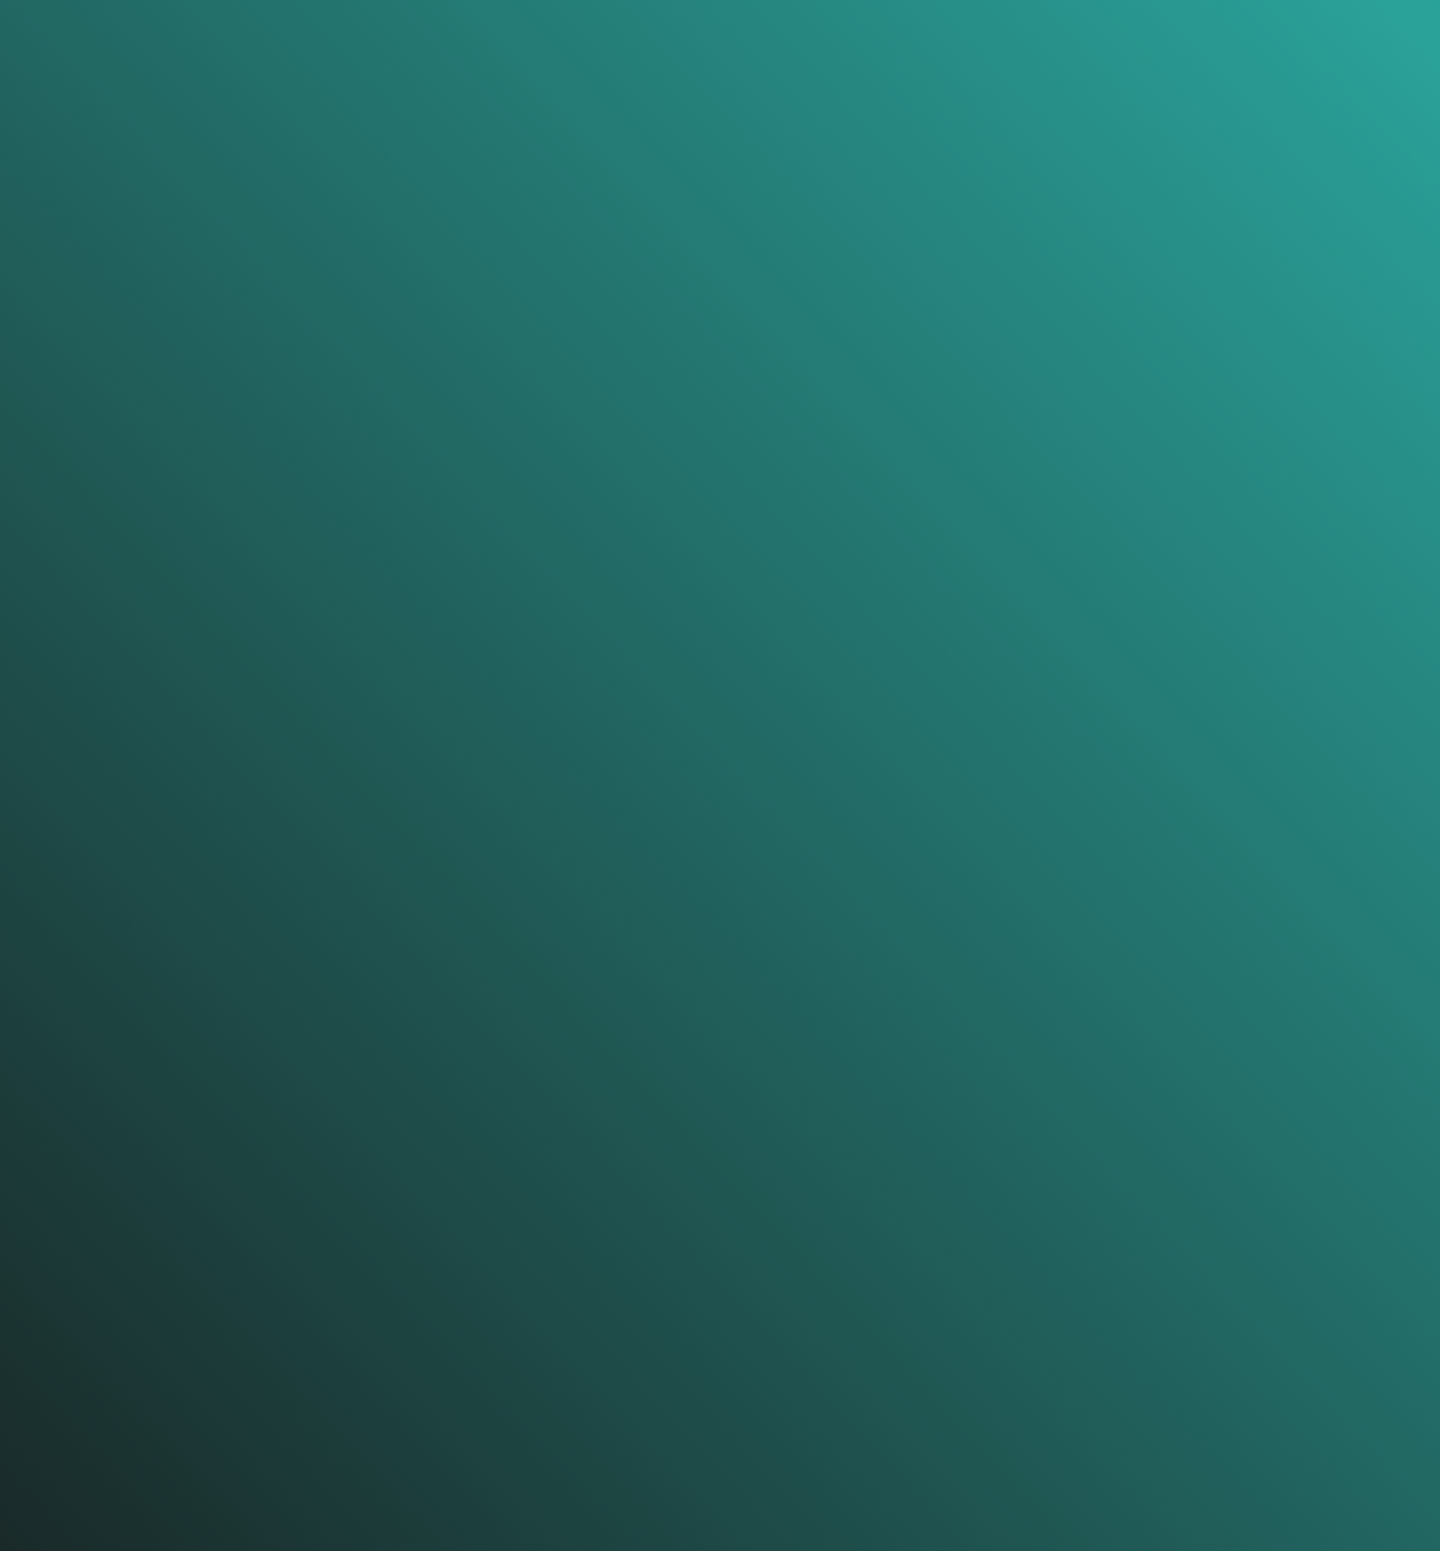
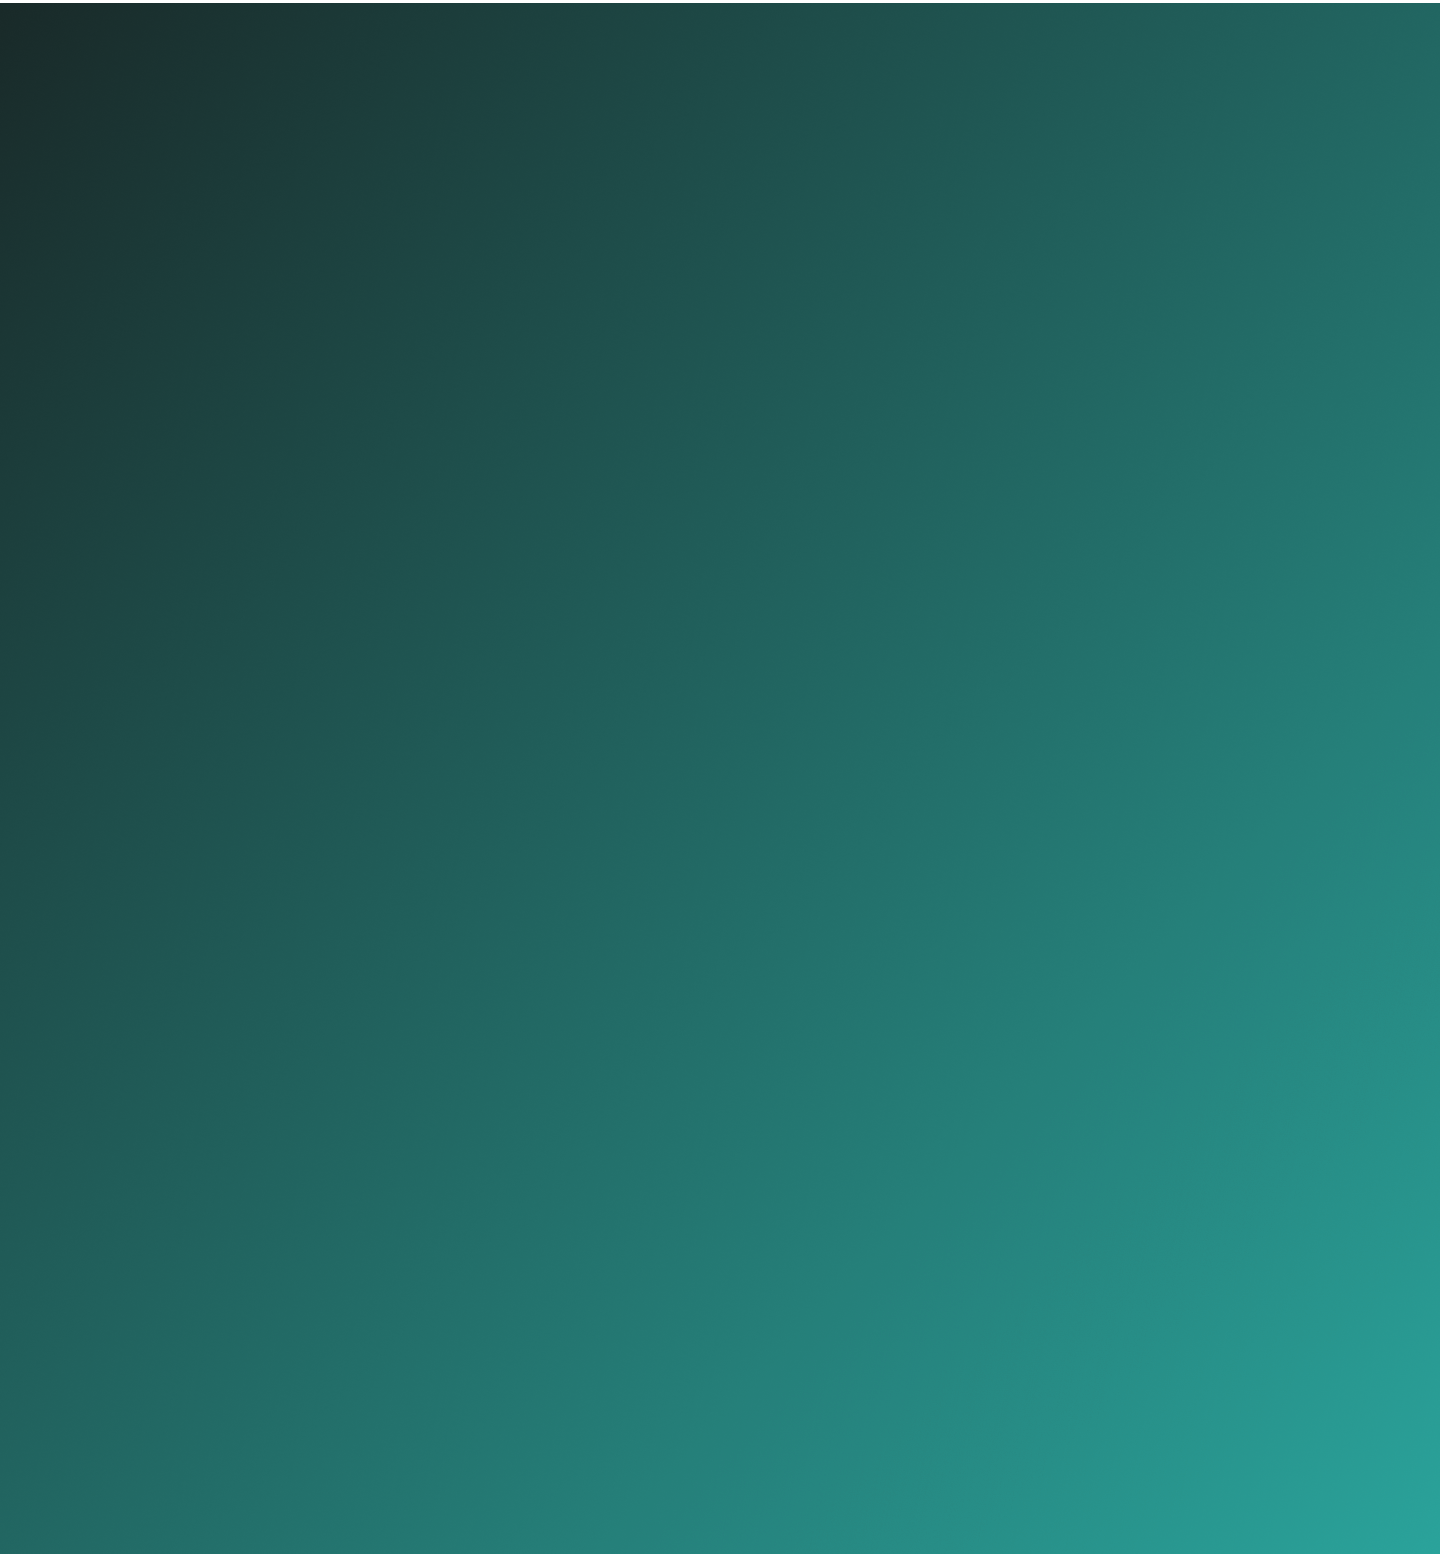
fix: Centré la parte de textimonios y reseñas

diff --git a/index.html b/index.html
@@ -200,7 +200,7 @@
             </div>
         </section>
 		<section id="testimonios">
-            <div class="main-container2">
+            <div class="main-container2" style="--src:url(../img/FondoTurquesaNegro.png)">
                 <div class="rectangle">
                   <span class="remote-teams">Nuestros Testimonios y Reseñas</span>
                   <div class="wrapper">

diff --git a/css/styles.css b/css/styles.css
@@ -2309,7 +2309,9 @@ button {
 }
 
 .main-container2 {
-    background: linear-gradient(to bottom, #2AA39B, #192928);
+  display: flex;
+  justify-content: center;
+  background: var(--src) center center/cover no-repeat;
 }
 
 .video-explicativo-petwellness {
